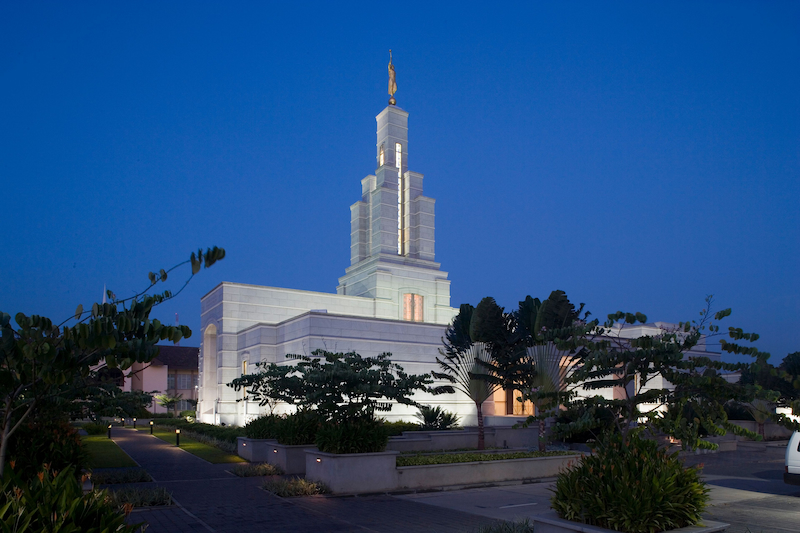
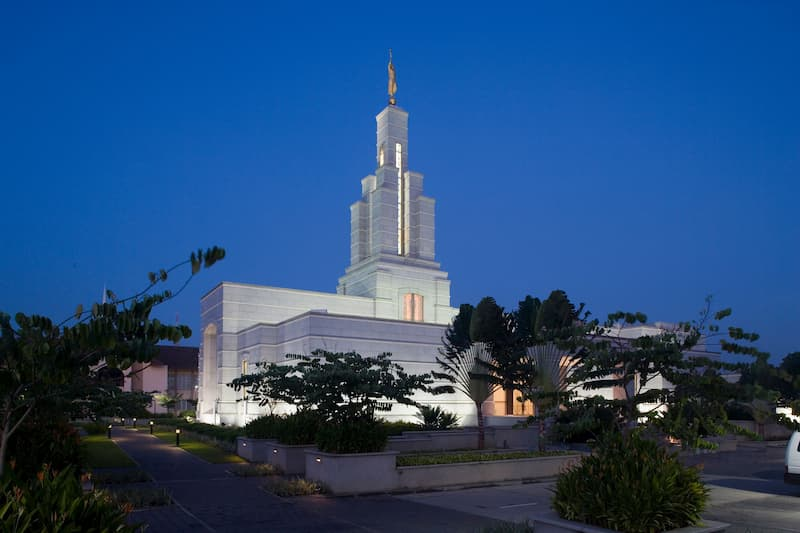
new elements img and file link img

diff --git a/week01/images.html b/week01/images.html
@@ -1,14 +1,17 @@
 <!DOCTYPE html>
 <html lang="en">
+
 <head>
     <meta charset="UTF-8">
     <meta name="viewport" content="width=device-width, initial-scale=1.0">
     <title>Temple Image</title>
 </head>
+
 <body>
     <h1>The Temple</h1>
     <p>This is an image of the beautiful temple in Accra, Ghana:</p>
-    <img src="images/temple-large.jpeg" alt="The Accra Ghana Temple">
-    
+    <img src="images/temple-large.jpg" alt="The Accra Ghana Temple">
+
 </body>
+
 </html>